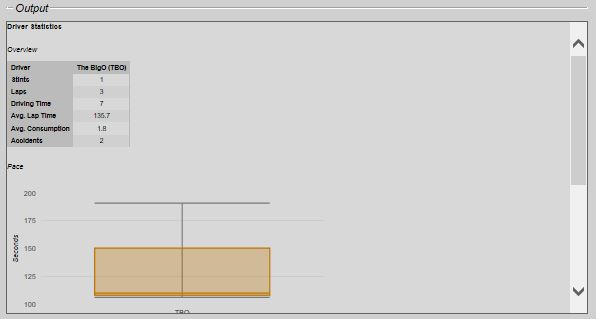
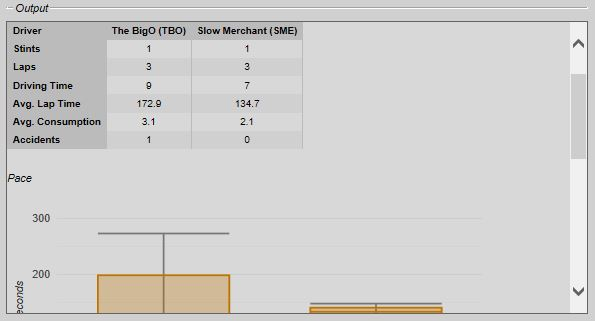
Documentation Update

diff --git a/Docs/Team Server.md b/Docs/Team Server.md
@@ -126,7 +126,7 @@ Beside that, you can request several context specific data, which will be shown 
   
      You can generate a special report for all active drivers the team with detailed information about their stints as well as their individual performance figures (potential, race craft, pace, consistency and car control). Choose the "Driver Statistics" command from the "Data" menu to generate this report.
 	 
-	 ![](https://github.com/SeriousOldMan/Simulator-Controller/blob/main/Docs/Images/Race%20Center%2010.JPG)
+	 ![](https://github.com/SeriousOldMan/Simulator-Controller/blob/main/Docs/Images/Race%20Center%2010.JPG) ![](https://github.com/SeriousOldMan/Simulator-Controller/blob/main/Docs/Images/Race%20Center%2012.JPG)
 	 
   4. Race Summary
   
